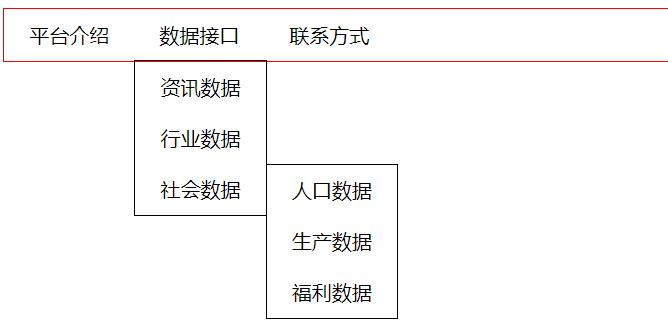
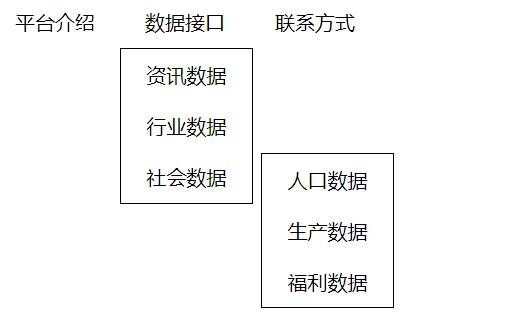
update

Changed region(s): [[0.0, 0.0, 1.0, 0.9639], [0.4589, 0.4518, 0.5201, 0.512], [0.7342, 0.9036, 0.7648, 0.9337]]

diff --git a/README.md b/README.md
@@ -360,7 +360,7 @@ new Vue({
 * 多级导航栏:![](/images/20.jpg)
 ```
 <div class="g-nav">
-    <div class="g-nav-item">平台介绍</div>
+    <div class="g-nav-item ">平台介绍</div>
     <div class="g-sub-nav">
         <div class="g-nav-item">数据接口</div>
         <div class="g-sub-nav-popover">
@@ -383,7 +383,6 @@ new Vue({
 .g-nav {
     display: flex;
     flex-direction: row;
-    border: 1px solid red;
 }
 .g-nav-item {
     padding: 10px 20px;
@@ -392,22 +391,22 @@ new Vue({
     position: relative;
 }
 .g-sub-nav-popover {
+    margin-top: 1px;
     position: absolute;
+    background-color:white;/*修改popover背景色*/
     top: 100%;
     left: 0;
     border: 1px solid black;
     white-space: nowrap; /*不许换行，防止文字竖向排列*/
 }
 .g-sub-nav .g-sub-nav .g-sub-nav-popover{
-    position: absolute;
+    margin-left: 8px;
     top: 0%;
     left: 100%;
-    border: 1px solid black;
-    white-space: nowrap; /*不许换行，防止文字竖向排列*/
 }
 ```
 ---
-* 为选中项添加不占空间的底边:![](/images/21.jpg)
+* ::after为选中项添加不占空间的底边:![](/images/21.jpg)
 ```
 <div class="g-nav">
     <div class="g-nav-item">平台介绍</div>
@@ -433,4 +432,11 @@ new Vue({
      border-bottom:1px solid blue;
      width:100%;
  }
+
+/**
+如果要消除after效果，则用
+.selected::after{
+display:none
+}
+*/
 ```
